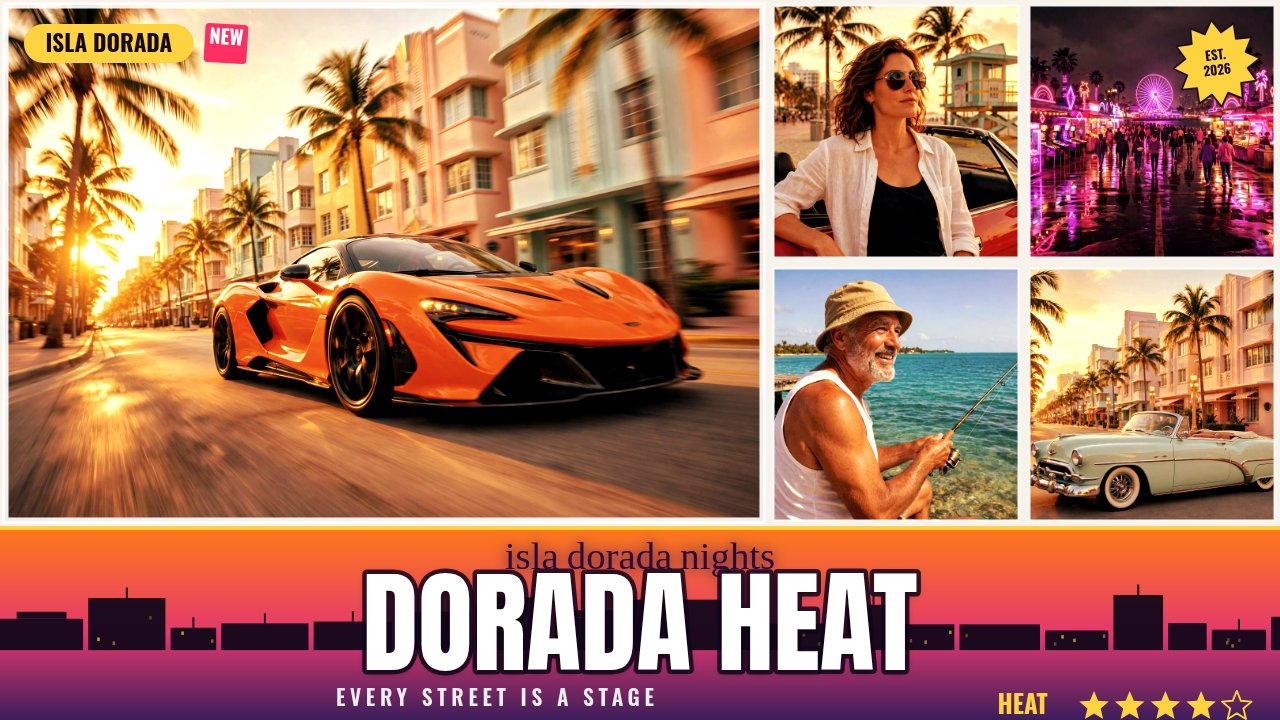
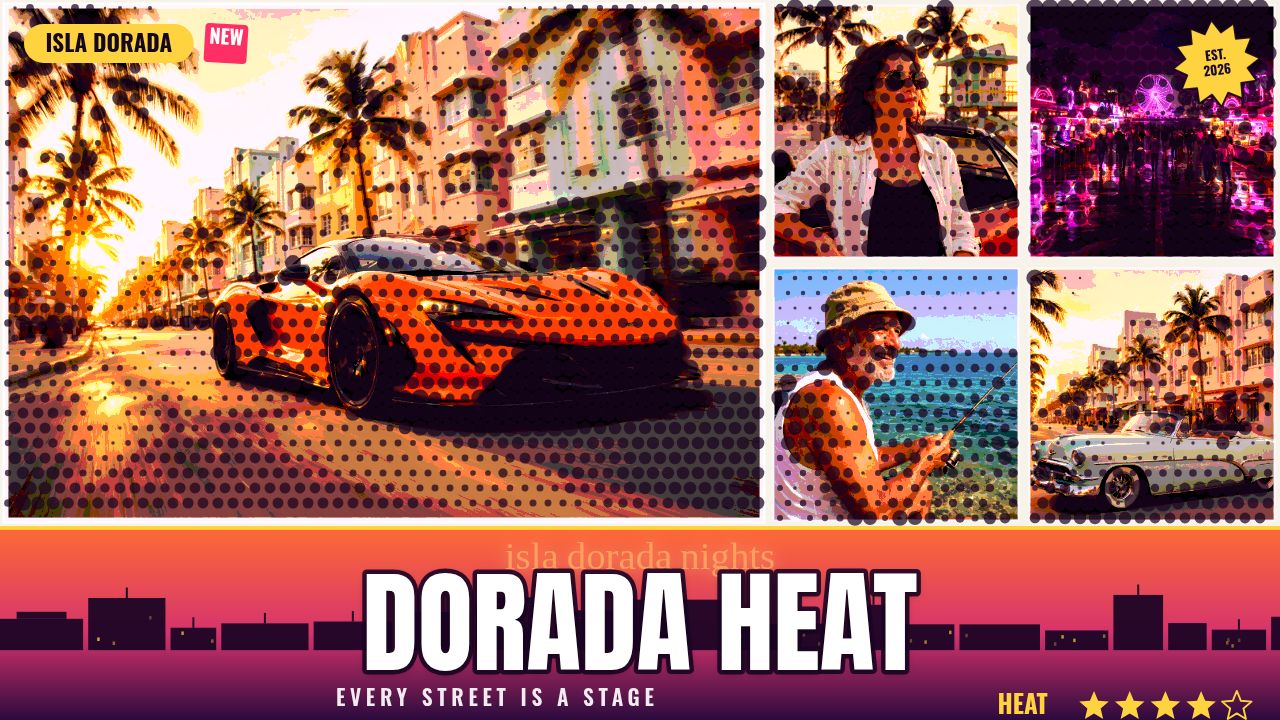
Poster Ink: halftone/posterize treatment as 7th grade + overlay toggle with intensity

diff --git a/app/src/cover.js b/app/src/cover.js
@@ -132,6 +132,17 @@ export const GRADES = {
     title: '#ffffff', titleStroke: 'rgba(40,0,50,0.85)',
     accent: '#ffe66d', script: '#ffd6f5', skyline: 'rgba(38,2,52,0.92)',
   },
+  // 7th grade: our own warm sunset-duotone palette (orange -> magenta ->
+  // deep plum) paired with the Poster Ink post-process. The palette is
+  // Dorada's own; the ink effect is what gives it the print identity.
+  'poster-ink': {
+    label: 'Poster Ink',
+    filter: 'saturate(1.6) contrast(1.28) sepia(0.22) brightness(1.02)',
+    tint: 'rgba(255,96,40,0.3)', tintMode: 'overlay',
+    band: ['#ff6b35', '#d6336c', '#2b0a3d'],
+    title: '#ffffff', titleStroke: 'rgba(30,4,40,0.9)',
+    accent: '#ffd23f', script: '#ff9e5e', skyline: 'rgba(24,3,36,0.92)',
+  },
 };
 
 export const PRESETS = [
@@ -156,6 +167,10 @@ export function createDefaultState() {
     kicker: 'ISLA DORADA',
     script: 'isla dorada nights',
     stickers: { est: true, newBadge: true, heat: 4 },
+    // Poster Ink overlay: posterize + halftone dots over the PHOTO PANELS
+    // only (type, band, badges and stickers stay crisp on top).
+    // `amount` 0..1 scales both steps.
+    ink: { on: false, amount: 0.85 },
     panels: Array.from({ length: MAX_PANELS }, () => ({
       img: null, name: '', zoom: 1, panX: 0.5, panY: 0.5, grade: 'global',
     })),
@@ -327,6 +342,93 @@ function fitFont(ctx, text, family, weight, startSize, maxWidth) {
   return size;
 }
 
+/** Poster Ink post-process: posterize the photo panels, then overlay a
+ * halftone dot grid sampled from the posterized luminance.
+ *
+ * Own implementation, two passes over the given rects (default: the whole
+ * canvas):
+ *  1. Posterize — each channel is quantized to a few steps (via a 256-entry
+ *     lookup table) and blended toward the quantized value by `amount`, with
+ *     a mild warm-duotone push (shadows toward plum, highlights kept warm).
+ *  2. Halftone — dots on a grid whose spacing scales with the canvas
+ *     (max(W,H)/85), so preview and 1920x1080 export look the same. Each
+ *     dot's radius grows with local darkness, so shadows read as dense ink
+ *     and highlights stay open. Dot colour is deep plum ink, not pure black,
+ *     to keep it in the sunset palette. The dot grid stays anchored to the
+ *     canvas origin, so dots line up across panel gaps.
+ * Cost: one getImageData/putImageData per rect + ~5k circles at 1920x1080 —
+ * fast enough for live preview redraws and for export.
+ * The caller inks the photo panels BEFORE the band, type and stickers are
+ * drawn, so the halftone reads across the photos while all type stays
+ * crisp on top — the way a real poster keeps type over halftone art. */
+function applyPosterInk(ctx, W, H, amount, rects) {
+  const a = clamp(amount ?? 0.85, 0, 1);
+  if (a <= 0) return;
+  const steps = 5;
+  const lut = new Uint8Array(256);
+  for (let v = 0; v < 256; v++) {
+    lut[v] = Math.round(Math.round((v / 255) * (steps - 1)) * (255 / (steps - 1)));
+  }
+  // Warm-duotone channel gains, blended in with the posterize step.
+  const gr = 1.06, gg = 0.96, gb = 1.0;
+  // Areas to ink: the photo panels only (default: the whole canvas).
+  const areas = (rects && rects.length ? rects : [{ x: 0, y: 0, w: W, h: H }])
+    .map((r) => {
+      const x = Math.max(0, Math.round(r.x));
+      const y = Math.max(0, Math.round(r.y));
+      return {
+        x, y,
+        w: Math.min(W - x, Math.round(r.w)),
+        h: Math.min(H - y, Math.round(r.h)),
+      };
+    })
+    .filter((r) => r.w > 0 && r.h > 0);
+  // Posterize each area in place, keeping its pixel data for the halftone pass.
+  const inks = areas.map((r) => {
+    const img = ctx.getImageData(r.x, r.y, r.w, r.h);
+    const d = img.data;
+    for (let i = 0; i < d.length; i += 4) {
+      d[i] = clamp(d[i] + (lut[d[i]] * gr - d[i]) * a, 0, 255);
+      d[i + 1] = clamp(d[i + 1] + (lut[d[i + 1]] * gg - d[i + 1]) * a, 0, 255);
+      d[i + 2] = clamp(d[i + 2] + (lut[d[i + 2]] * gb - d[i + 2]) * a, 0, 255);
+    }
+    ctx.putImageData(img, r.x, r.y);
+    return { r, d };
+  });
+
+  // Halftone dots, sampled from the posterized luminance, inside the inked
+  // areas only.
+  const spacing = Math.max(9, Math.round(Math.max(W, H) / 85));
+  const maxR = spacing * 0.62;
+  ctx.save();
+  ctx.fillStyle = `rgba(26,4,32,${(0.55 * a + 0.25).toFixed(2)})`;
+  const half = spacing / 2;
+  for (const { r, d } of inks) {
+    // First grid line at or below the rect top, on the canvas-anchored grid.
+    const startY = Math.ceil((r.y - half) / spacing) * spacing + half;
+    for (let gy = startY; gy < r.y + r.h; gy += spacing) {
+      const row = Math.round(gy);
+      // Offset alternate rows by half a step (classic halftone stagger).
+      const xOff = (Math.round(gy / spacing) % 2 === 0) ? 0 : half;
+      const startX = Math.ceil((r.x - half - xOff) / spacing) * spacing + half + xOff;
+      for (let gx = startX; gx < r.x + r.w; gx += spacing) {
+        const cx = Math.round(gx);
+        const idx = ((row - r.y) * r.w + (cx - r.x)) * 4;
+        if (idx < 0 || idx + 2 >= d.length) continue;
+        const lum = (d[idx] * 0.3 + d[idx + 1] * 0.59 + d[idx + 2] * 0.11) / 255;
+        const darkness = 1 - lum;
+        if (darkness < 0.12) continue;
+        const rad = maxR * Math.pow(darkness, 1.15) * (0.55 + 0.45 * a);
+        if (rad < 0.7) continue;
+        ctx.beginPath();
+        ctx.arc(cx, row, rad, 0, Math.PI * 2);
+        ctx.fill();
+      }
+    }
+  }
+  ctx.restore();
+}
+
 /** Draws the complete poster for `state` onto `canvas` at its own size. */
 export function drawCover(canvas, state) {
   const ctx = canvas.getContext('2d');
@@ -344,6 +446,14 @@ export function drawCover(canvas, state) {
 
   // photo panels
   panels.forEach((rect, i) => drawPanel(ctx, rect, state.panels[i], grade, i));
+
+  // Poster Ink over the photo panels ONLY, before the band, type, badges
+  // and stickers: the dots read across the photos while everything drawn
+  // after this renders crisp on top (any grade; the Poster Ink grade just
+  // turns it on by default). Same intensity as before — only the area moved.
+  if (state.ink && state.ink.on) {
+    applyPosterInk(ctx, W, H, state.ink.amount ?? 0.85, panels);
+  }
 
   // ---- title band ----
   const band = ctx.createLinearGradient(0, bandY, 0, H);

diff --git a/app/src/main.js b/app/src/main.js
@@ -92,6 +92,10 @@ function randomize() {
   state.title = preset.title;
   state.tagline = preset.tagline;
   state.script = preset.script;
+  // Poster Ink grade implies the overlay; other grades randomize it on
+  // about a quarter of the time so the ink look keeps surfacing.
+  state.ink.on = state.grade === 'poster-ink' || Math.random() < 0.25;
+  if (state.grade === 'poster-ink') state.ink.amount = 0.85;
   state.stickers.heat = 1 + Math.floor(Math.random() * 5);
   // shuffle the sample order so panels never repeat a photo
   const ids = [...SAMPLE_ORDER];
@@ -174,6 +178,13 @@ function buildGradeButtons() {
     b.innerHTML = `<span class="swatch" style="background:linear-gradient(135deg, ${def.band[0]}, ${def.band[1]}, ${def.band[2]})"></span>${def.label}`;
     b.addEventListener('click', () => {
       state.grade = id;
+      // The Poster Ink grade is the ink look: picking it turns the overlay
+      // on at its default intensity. Other grades leave the overlay as-is,
+      // so Ink can sit over any grade.
+      if (id === 'poster-ink') {
+        state.ink.on = true;
+        state.ink.amount = Math.max(state.ink.amount || 0, 0.85);
+      }
       syncControls();
       redraw();
     });
@@ -290,6 +301,9 @@ function syncControls() {
   $('sticker-est').checked = !!state.stickers.est;
   $('sticker-new').checked = !!state.stickers.newBadge;
   $('sticker-heat').value = String(state.stickers.heat);
+  $('ink-toggle').checked = !!state.ink.on;
+  $('ink-amount').value = String(Math.round((state.ink.amount ?? 0.85) * 100));
+  $('ink-amount-val').textContent = `${Math.round((state.ink.amount ?? 0.85) * 100)}%`;
   document.querySelectorAll('#layout-buttons .pick').forEach((b, i) => {
     b.classList.toggle('active', Object.keys(LAYOUTS)[i] === state.layout);
   });
@@ -397,6 +411,21 @@ for (const key of ['title', 'tagline', 'kicker', 'script-line']) {
 $('sticker-est').addEventListener('change', (e) => { state.stickers.est = e.target.checked; redraw(); });
 $('sticker-new').addEventListener('change', (e) => { state.stickers.newBadge = e.target.checked; redraw(); });
 $('sticker-heat').addEventListener('change', (e) => { state.stickers.heat = Number(e.target.value); redraw(); });
+$('ink-toggle').addEventListener('change', (e) => {
+  state.ink.on = e.target.checked;
+  redraw();
+});
+$('ink-amount').addEventListener('input', (e) => {
+  state.ink.amount = Number(e.target.value) / 100;
+  $('ink-amount-val').textContent = `${e.target.value}%`;
+  // Dragging the intensity turns the overlay on, so the effect is visible
+  // immediately instead of silently changing a hidden value.
+  if (!state.ink.on) {
+    state.ink.on = true;
+    $('ink-toggle').checked = true;
+  }
+  redraw();
+});
 
 document.querySelectorAll('.size-pick').forEach((b) => {
   b.addEventListener('click', () => {
@@ -439,6 +468,15 @@ async function init() {
     document.body.classList.add(`shot-${shot.mode}`);
     state.layout = LAYOUTS[shot.layout] ? shot.layout : 'hero-left';
     state.grade = GRADES[shot.grade] ? shot.grade : 'sunset';
+    // Poster Ink for shots: explicit ink=/inkAmount= win; otherwise the
+    // Poster Ink grade turns the overlay on at its default intensity.
+    if (shot.inkAmount !== null && shot.inkAmount !== undefined) state.ink.amount = shot.inkAmount;
+    if (shot.ink !== null && shot.ink !== undefined) {
+      state.ink.on = shot.ink;
+    } else {
+      state.ink.on = state.grade === 'poster-ink';
+      if (state.ink.on) state.ink.amount = Math.max(state.ink.amount || 0, 0.85);
+    }
     state.title = shot.title;
     state.tagline = shot.tagline;
     state.kicker = shot.kicker;

diff --git a/app/style.css b/app/style.css
@@ -30,6 +30,12 @@ button.active { border-color: #00f0ff; background: #12303a; color: #bff6ff; }
 button.mini { padding: 5px 8px; font-size: 12px; width: 100%; }
 
 .pick-grid { display: grid; grid-template-columns: 1fr 1fr; gap: 6px; }
+
+.ink-row { display: flex; align-items: center; gap: 12px; margin-top: 8px; padding: 8px; border: 1px solid #2c2140; border-radius: 8px; background: #1d1530; }
+.ink-row .check { flex-direction: row; align-items: center; gap: 6px; margin: 0; font-weight: 600; color: #ffd23f; white-space: nowrap; }
+.ink-slider { flex: 1; display: flex; align-items: center; gap: 6px; margin: 0; font-weight: 400; color: #d9cfee; }
+.ink-slider input[type=range] { flex: 1; min-width: 0; }
+.ink-slider span { min-width: 34px; text-align: right; color: #ffd23f; font-weight: 600; }
 .pick { text-align: left; padding: 6px 8px; font-size: 12.5px; }
 .pick .swatch { display: inline-block; width: 14px; height: 14px; border-radius: 3px; margin-right: 7px; vertical-align: -2px; border: 1px solid rgba(255,255,255,0.35); }
 

diff --git a/app/src/shots.js b/app/src/shots.js
@@ -16,10 +16,21 @@ export function parseShot(query) {
     const m = sizeRaw.match(/^(\d+)x(\d+)$/);
     if (m) size = { w: +m[1], h: +m[2] };
   }
+  // Poster Ink: ink=1 turns the overlay on, inkAmount=0..1 sets intensity.
+  // Absent ink param + grade=poster-ink also turns it on (grade default).
+  let ink = null;
+  let inkAmount = null;
+  if (query.get('ink') !== null) ink = query.get('ink') === '1' || query.get('ink') === 'true';
+  if (query.get('inkAmount') !== null) {
+    const v = Number(query.get('inkAmount'));
+    if (Number.isFinite(v)) inkAmount = Math.min(1, Math.max(0, v));
+  }
   return {
     mode,
     layout: query.get('layout') || 'hero-left',
     grade: query.get('grade') || 'sunset',
+    ink,
+    inkAmount,
     title: query.get('title') || query.get('caption') || 'DORADA HEAT',
     tagline: query.get('tagline') || 'EVERY STREET IS A STAGE',
     kicker: query.get('kicker') || 'ISLA DORADA',

diff --git a/app/index.html b/app/index.html
@@ -44,6 +44,14 @@
     <section>
       <h2><span class="num">3</span> Grade</h2>
       <div id="grade-buttons" class="pick-grid"></div>
+      <div class="ink-row">
+        <label class="check"><input id="ink-toggle" type="checkbox"> Poster Ink overlay</label>
+        <label class="ink-slider">Intensity
+          <input id="ink-amount" type="range" min="0" max="100" step="5" value="85">
+          <span id="ink-amount-val">85%</span>
+        </label>
+      </div>
+      <p class="dim">Halftone dots + posterized print look, over any grade. Picking the Poster Ink grade turns it on.</p>
     </section>
     <section>
       <h2><span class="num">4</span> Caption</h2>
